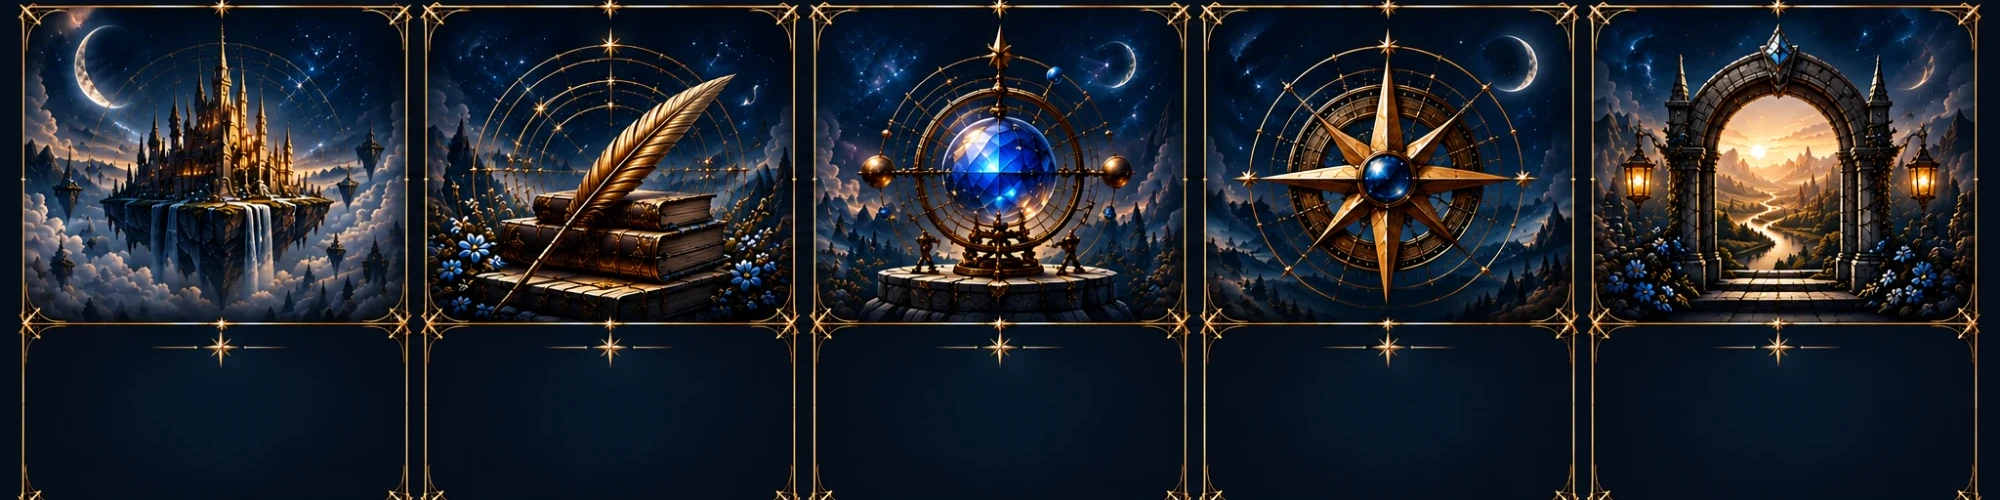
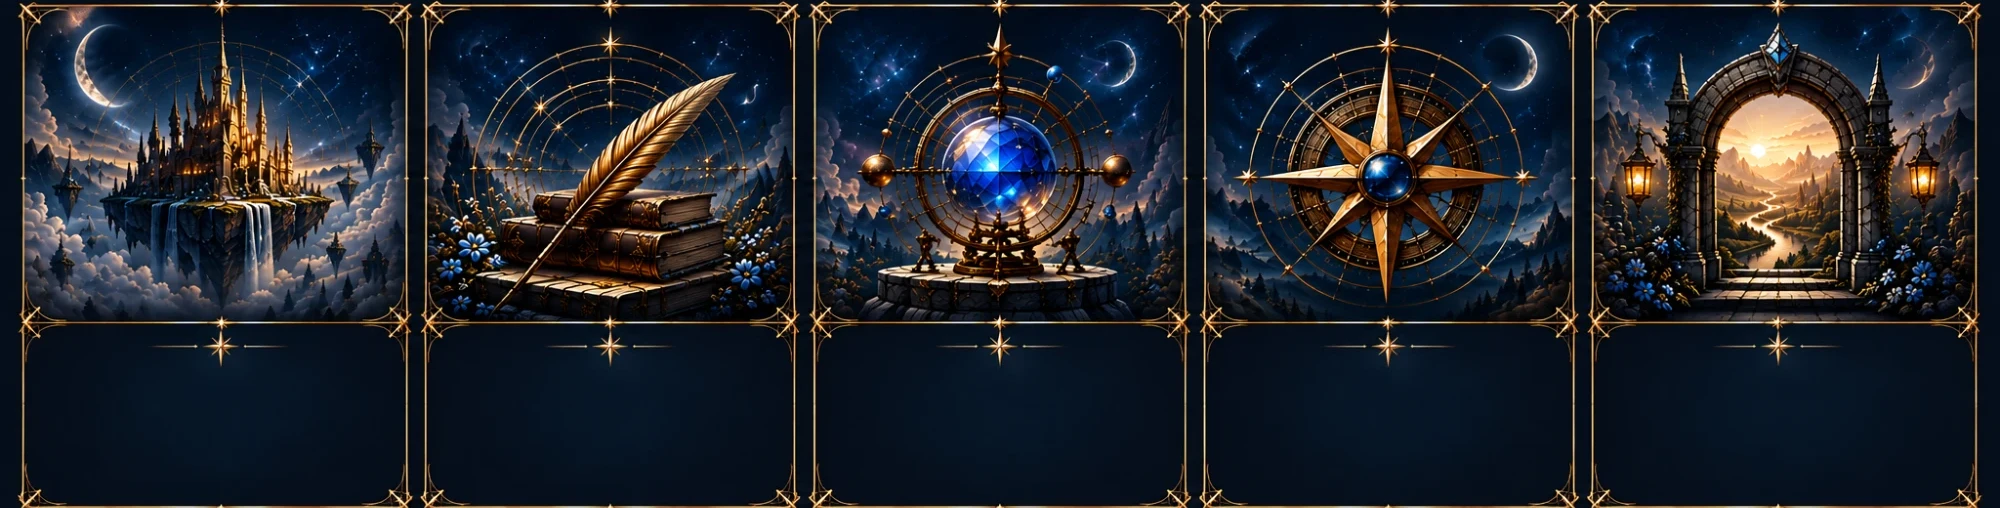
Fix the real bug: crop was cutting the card's bottom border by 5px
Measured the source art's actual border lines precisely (top border
at y=130, bottom border at y=630 — exactly 500px apart) — the
previous crop (125 to 625) was offset by ~5px, slicing through the
bottom border line so the card never visually closed at the bottom,
matching the user's "cutting the bottom frame" report even after the
text-position and mobile-ratio fixes.

Re-cropped to y=126–634 (4px safety margin on each side of the
measured border positions) and updated .create-banner img's
aspect-ratio to the exact resulting ratio (2000/508) on both the
desktop and mobile rules, instead of the rounded 4/1 that no longer
matched the image and would have kept clipping it via object-fit:cover.

Verified via Playwright at 1440/1024px — every panel's border now
closes cleanly on all four sides.

Claude-Session: https://claude.ai/code/session_012yoaRDnNDApPVyvypB1AdJ

diff --git a/about.html b/about.html
@@ -154,7 +154,7 @@ nav{position:fixed;top:0;left:0;width:100%;padding:16px 48px;padding-top:calc(16
    stay real, translatable text overlaid on top, so the language
    switcher keeps working instead of text being baked into a picture. */
 .create-banner{position:relative;border:1px double rgba(216,192,138,.32);border-radius:14px;overflow:hidden;box-shadow:0 28px 70px rgba(0,0,0,.45);}
-.create-banner img{width:100%;height:auto;aspect-ratio:4/1;object-fit:cover;display:block;}
+.create-banner img{width:100%;height:auto;aspect-ratio:2000/508;object-fit:cover;display:block;}
 .create-labels{position:absolute;left:0;right:0;top:64%;bottom:1%;z-index:2;display:grid;grid-template-columns:repeat(5,1fr);align-items:center;padding:0 clamp(6px,1.4vw,18px);}
 .create-item{text-align:center;padding:0 clamp(4px,1vw,12px);}
 .create-item-title{font-family:'Cinzel',serif;font-size:clamp(.5rem,.85vw,.7rem);letter-spacing:clamp(1px,.3vw,2.5px);color:var(--gold-hi);margin-bottom:4px;text-shadow:0 1px 4px rgba(0,0,0,.7);}
@@ -177,7 +177,7 @@ nav{position:fixed;top:0;left:0;width:100%;padding:16px 48px;padding-top:calc(16
 }
 @media(max-width:700px){
   .create-banner{display:flex;flex-direction:column;}
-  .create-banner img{aspect-ratio:4/1;}
+  .create-banner img{aspect-ratio:2000/508;}
   .create-labels{position:relative;inset:auto;grid-template-columns:repeat(2,1fr);align-items:start;gap:16px 10px;padding:18px clamp(14px,4vw,28px);background:rgba(255,255,255,.02);border-top:1px solid rgba(216,192,138,.14);}
   .create-item-title{text-shadow:none;}
   .create-item-text{text-shadow:none;}
